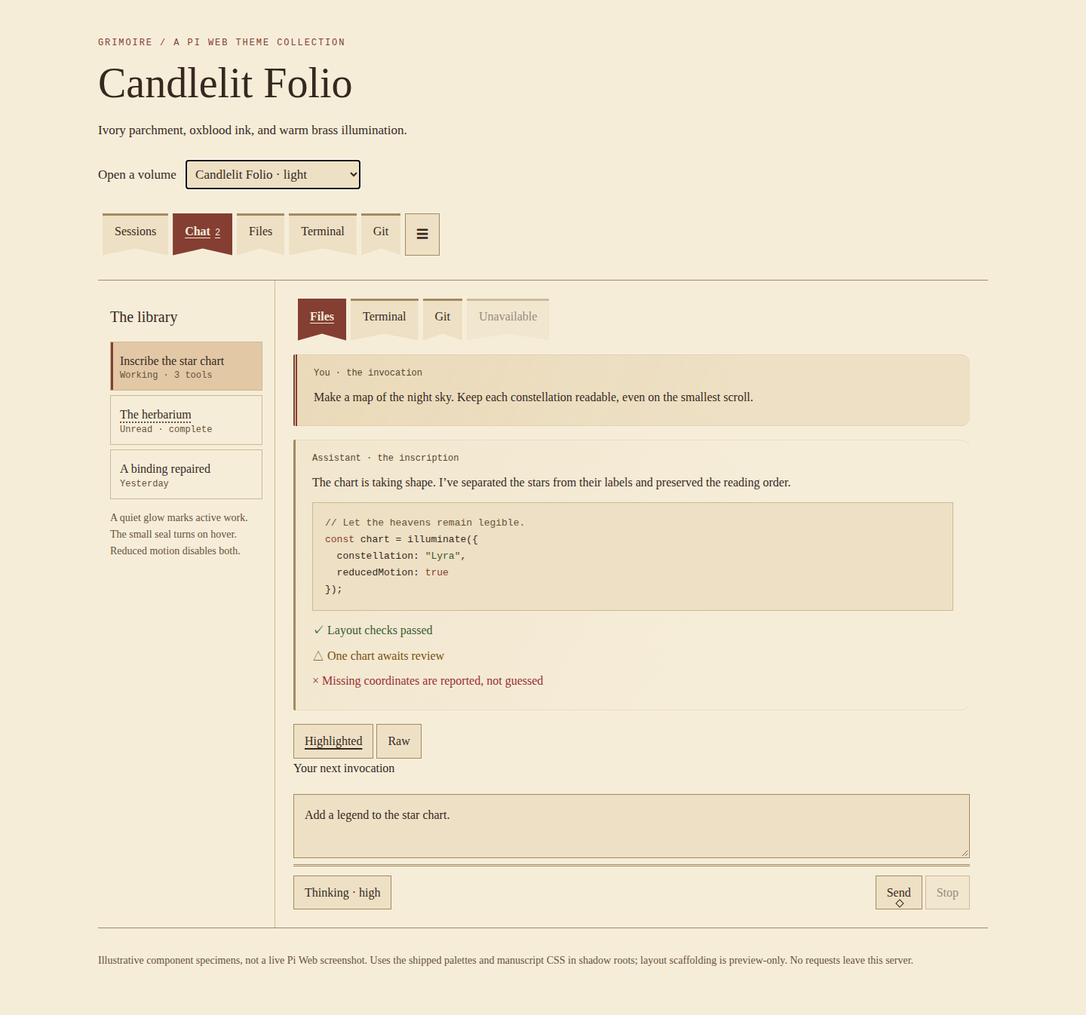
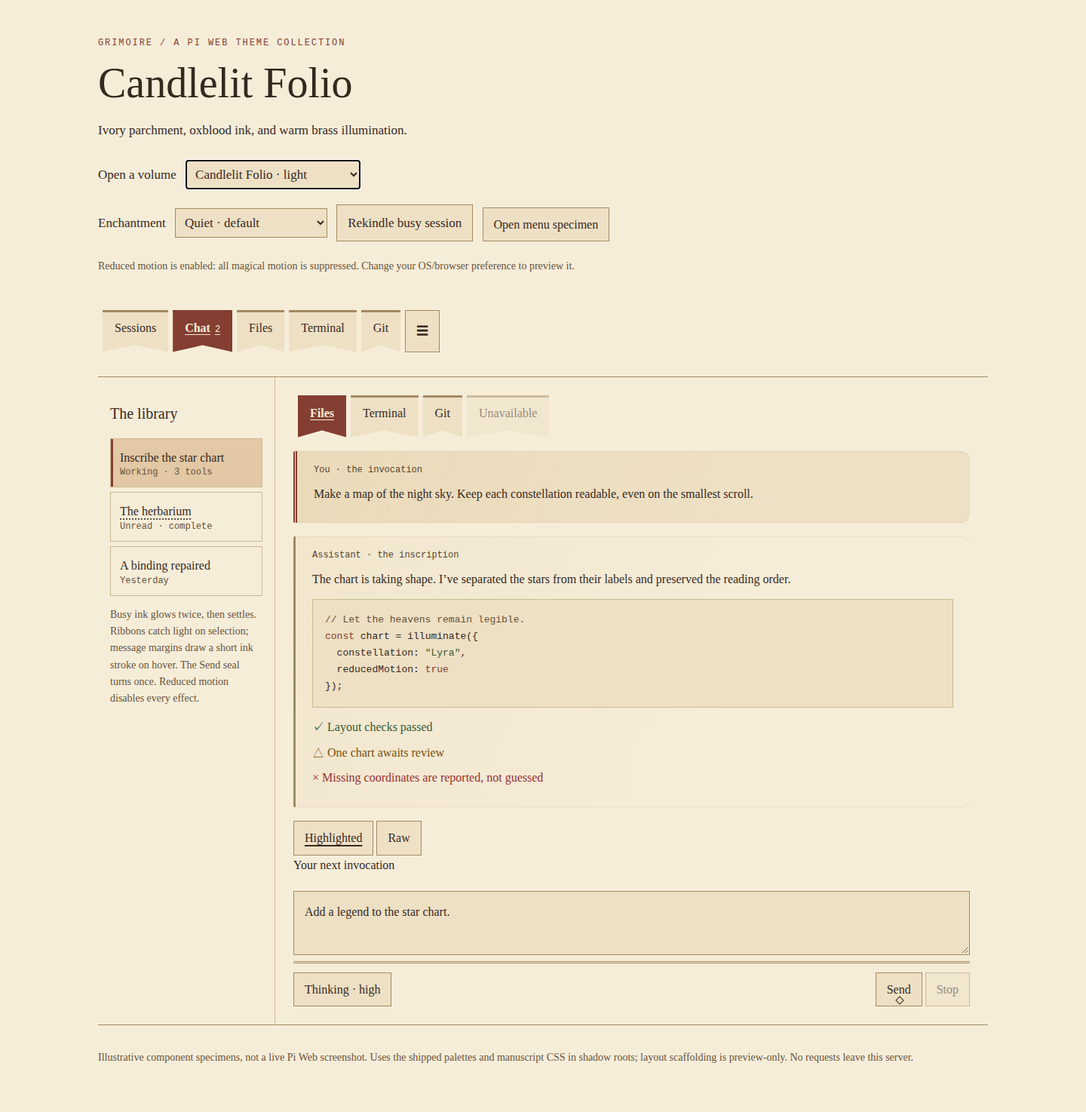
Add Quiet and Spellbound motion editions with interactive studies

Changed region(s): [[0.0938, 0.2808, 0.9062, 0.9049], [0.0938, 0.0312, 0.5625, 0.2496], [0.0938, 0.9361, 0.8438, 0.9673]]

diff --git a/previews/gallery.js b/previews/gallery.js
@@ -24,8 +24,10 @@ const base = `@layer pi-web-base {
   .ui-tab { flex: 0 0 auto; white-space: nowrap; }
   .tab-badge { font: 12px var(--pi-mono); margin-inline-start: 6px; }
   .ui-tab.selected { background: var(--pi-selection-bg); }
+  .ui-popup-panel { background: var(--pi-surface); color: var(--pi-text); padding: 20px; }
 }`;
 const templates = {
+  'grimoire-menu': `<button popovertarget="specimen-menu">Open menu specimen</button><div id="specimen-menu" class="ui-popup-panel ui-menu" popover><p>Bookmark this spell</p><button popovertarget="specimen-menu" popovertargetaction="hide">Close</button></div>`,
   'app-mobile-main-tabs': `<nav class="mobile-tabs ui-tabs ui-tabs--primary" aria-label="Main panel specimens"><button class="ui-button ui-tab" aria-pressed="false">Sessions</button><button class="ui-button ui-tab selected" aria-pressed="true">Chat<span class="tab-badge">2</span></button><button class="ui-button ui-tab" aria-pressed="false">Files</button><button class="ui-button ui-tab" aria-pressed="false">Terminal</button><button class="ui-button ui-tab" aria-pressed="false">Git</button><button class="ui-button ui-tab" data-navigation-trigger aria-label="Navigation">☰</button></nav>`,
   'workspace-panel': `<div class="ui-tabs ui-tabs--primary" aria-label="Workspace panel specimens"><button class="ui-button ui-tab selected" aria-pressed="true">Files</button><button class="ui-button ui-tab" aria-pressed="false">Terminal</button><button class="ui-button ui-tab" aria-pressed="false">Git</button><button class="ui-button ui-tab" disabled aria-pressed="false">Unavailable</button></div>`,
   'session-list': `<div data-ui-context="sessions"><div class="ui-nav-list">
@@ -46,7 +48,7 @@ for (const [tag, markup] of Object.entries(templates)) {
   customElements.define(tag, class extends HTMLElement {
     constructor() {
       super();
-      this.attachShadow({ mode: 'open' }).innerHTML = `<style>${base}</style><link rel="stylesheet" href="../assets/manuscript.css">${markup}`;
+      this.attachShadow({ mode: 'open' }).innerHTML = `<style>${base}</style><link rel="stylesheet" href="../assets/manuscript.css"><link rel="stylesheet" href="../assets/motion.css">${markup}`;
       // Specimen-only interaction; production navigation remains host-owned.
       this.shadowRoot.addEventListener('click', event => {
         const button = event.target.closest('button.ui-tab:not([data-navigation-trigger])');
@@ -68,11 +70,22 @@ const themes = {
   verdant: ['Verdant Codex', 'Forest leather, pale sage lettering, and botanical gold.', 'dark']
 };
 const select = document.querySelector('#theme');
-function choose(id) {
+const motion = document.querySelector('#motion');
+function choose(selection) {
+  const spellbound = selection.endsWith('-spellbound');
+  let id = selection.replace(/-spellbound$/, '');
   if (!Object.hasOwn(themes, id)) id = 'candlelit';
   select.value = id;
+  motion.value = spellbound ? 'spellbound' : 'quiet';
   for (const root of [document.head, ...Object.keys(templates).map(tag => document.querySelector(tag).shadowRoot)]) {
     root.querySelector('[data-paper]')?.remove();
+    root.querySelector('[data-spellbound]')?.remove();
+    if (spellbound) {
+      const link = document.createElement('link');
+      link.rel = 'stylesheet'; link.href = '../assets/spellbound.css';
+      link.dataset.spellbound = '';
+      root.append(link);
+    }
     if (['hedgewitch', 'scribe', 'forgotten'].includes(id)) {
       const link = document.createElement('link');
       link.rel = 'stylesheet'; link.href = '../assets/paper.css';
@@ -82,10 +95,25 @@ function choose(id) {
   }
   document.querySelector('#palette').href = `../assets/${id}.css`;
   document.documentElement.style.colorScheme = themes[id][2];
-  document.querySelector('#title').textContent = themes[id][0];
+  document.querySelector('#title').textContent = themes[id][0] + (spellbound ? ' · Spellbound' : '');
   document.querySelector('#description').textContent = themes[id][1];
-  history.replaceState(null, '', `#${id}`);
+  history.replaceState(null, '', `#${id}${spellbound ? '-spellbound' : ''}`);
 }
-select.addEventListener('change', () => choose(select.value));
+const chooseControls = () => choose(select.value + (motion.value === 'spellbound' ? '-spellbound' : ''));
+select.addEventListener('change', chooseControls);
+motion.addEventListener('change', chooseControls);
+document.querySelector('#rekindle').addEventListener('click', () => {
+  const row = document.querySelector('session-list').shadowRoot.querySelector('[data-busy]');
+  row.dataset.busy = 'false';
+  // Flush the idle state so the CSS-only finite activity effect can be replayed.
+  void row.offsetWidth;
+  row.dataset.busy = 'true';
+});
+const reducedMotion = matchMedia('(prefers-reduced-motion: reduce)');
+const explainMotion = () => { document.querySelector('#motion-status').textContent = reducedMotion.matches
+  ? 'Reduced motion is enabled: all magical motion is suppressed. Change your OS/browser preference to preview it.'
+  : 'Select another ribbon, hover a message or the Send seal, open the menu, or rekindle the busy session. All effects settle.'; };
+reducedMotion.addEventListener('change', explainMotion);
+explainMotion();
 window.addEventListener('hashchange', () => choose(location.hash.slice(1)));
 choose(location.hash.slice(1));

diff --git a/assets/motion.css b/assets/motion.css
@@ -1,0 +1,82 @@
+/* Quiet enchantment. Spellbound changes only these bounded motion parameters.
+   No entrance animation on transcript text: mounting history is not new output. */
+:root {
+  --grimoire-kindling-time: 1600ms;
+  --grimoire-glow: 12%;
+  --grimoire-glow-size: 12px;
+  --grimoire-ribbon-time: 650ms;
+  --grimoire-sheen: 15%;
+  --grimoire-ink-time: 500ms;
+  --grimoire-ink-length: 28px;
+  --grimoire-seal-time: 650ms;
+  --grimoire-seal-start: -45deg;
+  --grimoire-menu-time: 280ms;
+}
+/* All effects stop immediately when either accessibility preference changes.
+   Nothing is hidden and no animation is necessary to understand a state. */
+@media (prefers-reduced-motion: no-preference) and (forced-colors: none) {
+  :host(session-list) .ui-nav-row[data-busy="true"] {
+    animation: grimoire-kindling var(--grimoire-kindling-time) ease-in-out 2;
+  }
+  :host(app-mobile-main-tabs) .ui-tabs > button.ui-tab:not(:disabled, [data-navigation-trigger]):is(.selected, [aria-pressed="true"], [aria-current="page"])::before,
+  :host(workspace-panel) .ui-tabs > button.ui-tab:not(:disabled, [data-navigation-trigger]):is(.selected, [aria-pressed="true"], [aria-current="page"])::before {
+    background-image: linear-gradient(110deg, transparent 35%, color-mix(in srgb, var(--pi-bg) var(--grimoire-sheen), transparent) 50%, transparent 65%);
+    /* Sweep the notched hem only, never wash out the contrasting label. */
+    background-size: 300% 8px;
+    background-repeat: no-repeat;
+    background-position: -100% 100%;
+    animation: grimoire-ribbon-light var(--grimoire-ribbon-time) ease-out 1;
+  }
+  /* Reserved decoration only; prose, code, selections and hitboxes never move. */
+  :host(chat-view) .chat-message-content::before {
+    content: "";
+    position: absolute;
+    inset-inline-start: 10px;
+    inset-block-start: 6px;
+    inline-size: var(--grimoire-ink-length);
+    block-size: 2px;
+    background: var(--pi-accent);
+    transform: scaleX(0);
+    transform-origin: center;
+    pointer-events: none;
+  }
+  :host(chat-view) .chat-message:focus-within .chat-message-content::before {
+    animation: grimoire-ink var(--grimoire-ink-time) ease-out 1;
+  }
+  :host(prompt-editor) .ui-composer-actions > [data-default="true"]:not(:disabled):focus-visible::after {
+    animation: grimoire-seal var(--grimoire-seal-time) ease-out 1;
+  }
+  .ui-popup-panel.ui-menu:popover-open {
+    animation: grimoire-menu-ink var(--grimoire-menu-time) ease-out 1;
+  }
+  /* Hover effects only on devices with real hover, not sticky touch hover. */
+  @media (hover: hover) {
+    :host(chat-view) .chat-message:hover .chat-message-content::before {
+      animation: grimoire-ink var(--grimoire-ink-time) ease-out 1;
+    }
+    :host(prompt-editor) .ui-composer-actions > [data-default="true"]:not(:disabled):hover::after {
+      animation: grimoire-seal var(--grimoire-seal-time) ease-out 1;
+    }
+  }
+}
+@keyframes grimoire-kindling {
+  0%, 100% { box-shadow: inset 3px 0 var(--pi-accent); }
+  50% { box-shadow: inset 3px 0 var(--pi-accent), inset 0 0 var(--grimoire-glow-size) color-mix(in srgb, var(--pi-accent) var(--grimoire-glow), transparent); }
+}
+@keyframes grimoire-ribbon-light {
+  from { background-position: 100% 100%; }
+  to { background-position: -100% 100%; }
+}
+@keyframes grimoire-ink {
+  0% { transform: scaleX(0); opacity: 0; }
+  35%, 70% { transform: scaleX(1); opacity: .65; }
+  100% { transform: scaleX(1); opacity: 0; }
+}
+@keyframes grimoire-seal {
+  from { transform: rotate(var(--grimoire-seal-start)); }
+  to { transform: rotate(45deg); }
+}
+@keyframes grimoire-menu-ink {
+  from { border-color: var(--pi-accent); }
+  to { border-color: var(--pi-border); }
+}

diff --git a/previews/index.html b/previews/index.html
@@ -6,6 +6,7 @@
   <title>Grimoire · Theme specimen</title>
   <link id="palette" rel="stylesheet" href="../assets/candlelit.css">
   <link rel="stylesheet" href="gallery.css">
+  <link rel="stylesheet" href="../assets/motion.css">
   <script type="module" src="gallery.js"></script>
 </head>
 <body>
@@ -14,10 +15,16 @@
     <h1 id="title">Candlelit Folio</h1>
     <p id="description">Ivory parchment, oxblood ink, and warm brass illumination.</p>
     <label>Open a volume <select id="theme"><option value="candlelit">Candlelit Folio · light</option><option value="astral">Astral Grimoire · dark</option><option value="verdant">Verdant Codex · dark</option><option value="hedgewitch">Hedgewitch’s Journal · light</option><option value="scribe">Scribe’s Spellbook · light</option><option value="forgotten">Forgotten Folio · light</option></select></label>
+    <div class="motion-lab">
+      <label>Enchantment <select id="motion"><option value="quiet">Quiet · default</option><option value="spellbound">Spellbound · expressive</option></select></label>
+      <button id="rekindle">Rekindle busy session</button>
+      <grimoire-menu></grimoire-menu>
+      <p id="motion-status" role="status"></p>
+    </div>
   </header>
   <app-mobile-main-tabs></app-mobile-main-tabs>
   <main>
-    <aside><h2>The library</h2><session-list></session-list><p class="note">A quiet glow marks active work. The small seal turns on hover. Reduced motion disables both.</p></aside>
+    <aside><h2>The library</h2><session-list></session-list><p class="note">Busy ink glows twice, then settles. Ribbons catch light on selection; message margins draw a short ink stroke on hover. The Send seal turns once. Reduced motion disables every effect.</p></aside>
     <section aria-label="Conversation specimen"><workspace-panel></workspace-panel><chat-view></chat-view><pi-web-content-renderer></pi-web-content-renderer><prompt-editor></prompt-editor></section>
   </main>
   <footer>Illustrative component specimens, not a live Pi Web screenshot. Uses the shipped palettes and manuscript CSS in shadow roots; layout scaffolding is preview-only. No requests leave this server.</footer>

diff --git a/assets/manuscript.css b/assets/manuscript.css
@@ -1,4 +1,5 @@
-/* Shared binding. Only supported host hooks; no behavior or generated text. */
+/* Shared binding. Documented hooks plus version-sensitive shell tabs.
+   No behavior or generated text. Motion lives in motion.css. */
 :host(chat-view) .chat-message {
   border-radius: var(--grimoire-radius);
   border-inline-start-width: 3px;
@@ -121,24 +122,6 @@
   :host(workspace-panel) .ui-tabs > button.ui-tab:not([data-navigation-trigger])::before {
     background: Canvas;
   }
-}
-/* A brief illumination when a session becomes busy, never an endless pulse.
-   Only shadow changes: no moving text, scroll shifts, overlays or click targets. */
-@media (prefers-reduced-motion: no-preference) {
-  :host(session-list) .ui-nav-row[data-busy="true"] {
-    animation: grimoire-kindling 2400ms ease-in-out 2;
-  }
-  :host(prompt-editor) .ui-composer-actions > [data-default="true"]:not(:disabled):hover::after {
-    animation: grimoire-seal 650ms ease-out 1;
-  }
-}
-@keyframes grimoire-kindling {
-  0%, 100% { box-shadow: inset 3px 0 var(--pi-accent); }
-  50% { box-shadow: inset 3px 0 var(--pi-accent), inset 0 0 14px var(--grimoire-illumination); }
-}
-@keyframes grimoire-seal {
-  from { transform: rotate(-45deg); }
-  to { transform: rotate(45deg); }
 }
 @media (forced-colors: active) {
   :host(chat-view) .chat-message {

diff --git a/previews/gallery.css b/previews/gallery.css
@@ -6,6 +6,11 @@ header, main, footer { max-width: 1180px; margin-inline: auto; }
 h1 { font-size: clamp(32px, 5vw, 56px); font-weight: 400; line-height: 1.15; margin: 10px 0; }
 h2 { font-size: 20px; font-weight: 400; }
 .eyebrow { color: var(--pi-accent); font: 12px/1.5 var(--pi-mono); letter-spacing: .16em; }
+.motion-lab { padding-block: 8px; }
+.motion-lab > button { padding: 10px 14px; font: inherit; color: var(--pi-text); background: var(--pi-surface); border: 1px solid var(--pi-border); cursor: pointer; }
+.motion-lab > button:focus-visible { outline: 2px solid var(--pi-accent); outline-offset: 2px; }
+#motion-status { font-size: 14px; color: var(--pi-muted); }
+grimoire-menu { display: inline-block; margin: 8px; vertical-align: middle; }
 select { margin: 8px; padding: 8px; max-width: 100%; background: var(--pi-surface); color: var(--pi-text); border: 1px solid var(--pi-border); font: inherit; }
 main { display: grid; grid-template-columns: 235px minmax(0, 1fr); margin-block: 32px; border-block: 1px solid var(--pi-border); }
 aside { padding: 16px; border-inline-end: 1px solid var(--pi-border-muted); }

diff --git a/assets/spellbound.css b/assets/spellbound.css
@@ -1,0 +1,14 @@
+/* Explicitly selected theatrical edition. Still finite, still no moving text.
+   Maximum uninterrupted effect: two 2200ms kindling cycles (4.4 seconds). */
+:root {
+  --grimoire-kindling-time: 2200ms;
+  --grimoire-glow: 28%;
+  --grimoire-glow-size: 26px;
+  --grimoire-ribbon-time: 1200ms;
+  --grimoire-sheen: 32%;
+  --grimoire-ink-time: 1100ms;
+  --grimoire-ink-length: 72px;
+  --grimoire-seal-time: 1000ms;
+  --grimoire-seal-start: -315deg;
+  --grimoire-menu-time: 600ms;
+}

diff --git a/README.md b/README.md
@@ -11,7 +11,9 @@ Six wizardly volumes for agentic work: three quiet manuscript palettes and three
 | **Scribe’s Spellbook** | Light | Calligraphic Charm handwriting, aged golden parchment | `grimoire:scribe` |
 | **Forgotten Folio** | Light | Slanted Marck Script, faded paper, foxing and worn edges | `grimoire:forgotten` |
 
-These are independent volumes, not an automatic light/dark pair. Auto mode will leave each selected volume unchanged.
+Each volume now has **Quiet** (the existing name/ID) and **Spellbound** motion editions: six palettes, twelve picker entries. Choose a `· Spellbound` entry for more expressive animation; its ID adds `-spellbound`, for example `grimoire:scribe-spellbound`. Both editions share the same static design. These are independent volumes, not an automatic light/dark pair; Auto leaves each selected edition unchanged.
+
+See [Enchantment studies](MOTION.md) for the effect-by-effect comparison, design reasoning, limitations, and test instructions.
 
 ## Preview before installing
 
@@ -35,7 +37,7 @@ From this repository, run:
 npm run preview
 ```
 
-Open **http://127.0.0.1:4173/previews/** and choose a volume. Direct selections: [Candlelit](previews/index.html#candlelit), [Astral](previews/index.html#astral), [Verdant](previews/index.html#verdant), [Hedgewitch](previews/index.html#hedgewitch), [Scribe](previews/index.html#scribe), [Forgotten](previews/index.html#forgotten). Serve these files over HTTP; Git hosting may display HTML source rather than render it. If the repository is on a remote machine, forward port 4173 to your browser's machine. Stop the preview with Ctrl+C.
+Open **http://127.0.0.1:4173/previews/** and choose a volume, then use **Enchantment → Quiet / Spellbound** to compare motion. Click **Rekindle busy session**, select ribbons, hover message margins and Send, or open the menu specimen. Your system reduced-motion preference always takes priority. Static PNGs do not show animation. Direct selections: [Candlelit](previews/index.html#candlelit), [Astral](previews/index.html#astral), [Verdant](previews/index.html#verdant), [Hedgewitch](previews/index.html#hedgewitch), [Scribe](previews/index.html#scribe), [Forgotten](previews/index.html#forgotten). Serve these files over HTTP; Git hosting may display HTML source rather than render it. If the repository is on a remote machine, forward port 4173 to your browser's machine. Stop the preview with Ctrl+C.
 
 The gallery uses the actual theme CSS in shadow roots with illustrative component specimens. It is **not a screenshot of the live application** or a substitute for testing in your Pi Web version. It needs Python 3 for the included server; any static HTTP server also works. No external fonts, image services, or CDN requests are used.
 
@@ -50,7 +52,7 @@ Requires a Pi Web version supporting **declarative CSS-first themes** and the co
    If you copied the repository elsewhere, use its actual absolute path on that machine. In Docker this must be a path accessible inside the container, preferably on a persistent mount.
 2. Check **Settings → PI WEB plugins** and enable **grimoire** if disabled.
 3. Reload the browser page.
-4. In **Settings → General → Theme**, select any of the six volumes listed above. The handwritten editions use the same installation—no separate font installation is needed.
+4. In **Settings → General → Theme**, select any of the six volumes listed above, or its **· Spellbound** edition. The handwritten editions use the same installation—no separate font installation is needed.
 
 Alternative developer installation: symlink this repository into the gateway's plugin directory (`$PI_WEB_DATA_DIR/plugins`, or `~/.pi-web/plugins` if unset), then reload the browser. For example, on that machine:
 
@@ -71,8 +73,8 @@ To uninstall, first select a built-in theme, then remove the package in Settings
 - Static local SVG textures provide mottling, fibres and foxing across the overall app canvas as well as message surfaces. The canvas texture is softened beneath a 55% base-colour wash; messages retain stronger paper detail and worn edges. Code blocks, inputs, and controls keep solid backgrounds. Shell host selectors (`pi-web-app`, `workspace-panel`) are version-sensitive and should be rechecked on host upgrades; opaque plugin-owned panels can cover the canvas. Inset shading wears the page edges without clipping text or changing hit targets. Forced colours removes the paper effects. Font loading uses `swap`, so prose remains visible while loading.
 - All six themes render main navigation (Sessions, Chat, pinned tools) and workspace tool tabs (Files, Terminal, Git, etc.) as notched ribbon bookmarks. Active ribbons use the theme accent with contrasting text and an underline. Only the decorative backing is clipped: focus outlines, labels, badges and rectangular click targets remain intact. Narrow strips keep horizontal scrolling; navigation-menu and collapse buttons remain ordinary controls. These rules target the version-sensitive `app-mobile-main-tabs` and `workspace-panel` shell hosts, not arbitrary plugin tabs or renderer choices.
 - User messages have a double leading rule; assistant messages a single rule. Current rows and selected choices retain structural cues, not colour alone.
-- Busy sessions receive two quiet 2.4-second illuminations. Hovering the default composer action turns its small diamond seal once. Neither effect changes layout or interaction.
-- Motion is opt-in through `prefers-reduced-motion: no-preference`; reduced-motion users get static decoration. Forced-colour mode keeps borders and a current-row outline.
+- Busy sessions kindle twice (3.2s total in Quiet, 4.4s in Spellbound). Selected bookmark hems catch light, message margins draw a short ink stroke on hover/focus, the default composer seal turns once, and opening menus briefly illuminate their borders. Text, click targets and reading surfaces stay still. No ambient loops or automatic message entrances.
+- All theme-owned motion requires `prefers-reduced-motion: no-preference` and inactive forced colours; changing either preference stops it immediately. Hover effects require real hover capability. Static borders, selection and focus remain. Already-selected/busy elements can animate on mount or theme change—these are decorations, not new-output or success signals.
 - Native focus, disabled/hidden states, labels, popover positioning, and Stop remain owned by Pi Web. No text replacement, click interception, or spellcasting behavior is added.
 
 ## Checks and development
@@ -84,13 +86,15 @@ npm pack --dry-run       # inspect the local package contents; does not publish
 
 Tests check metadata, local assets, restrained motion rules, and WCAG 4.5:1 contrast for primary/secondary/muted and semantic text against the two main opaque surfaces. They are not a blanket accessibility certification: blended surfaces, third-party plugins, focus, responsive layout, and actual host adoption also need browser checks.
 
-`assets/{candlelit,astral,verdant,hedgewitch,scribe,forgotten}.css` define complete palettes; `assets/manuscript.css` adds shared decorations using documented hooks. The three paper editions additionally load `assets/paper.css`, `assets/fonts/`, and `assets/textures/`.
+`assets/{candlelit,astral,verdant,hedgewitch,scribe,forgotten}.css` define complete palettes; `assets/manuscript.css` adds shared decorations using documented hooks. The three paper editions additionally load `assets/paper.css`, `assets/fonts/`, and `assets/textures/`. All volumes load `assets/motion.css`; Spellbound editions append parameter overrides from `assets/spellbound.css`.
 
 Optional browser fixture check (requires a separately available Playwright installation and Chromium):
 
 ```sh
 PLAYWRIGHT_MODULE=/absolute/path/to/playwright/index.mjs node test/browser.mjs
 # Add --capture to regenerate all six PNG previews.
+PLAYWRIGHT_MODULE=/absolute/path/to/playwright/index.mjs node test/motion-browser.mjs
+# Additional motion-enabled checks for all twelve editions; temporary port 4175.
 ```
 
 This launches a temporary loopback-only static server on port 4174 and closes it afterward. It checks local font loading, message/canvas paper, solid code/control backgrounds and fonts, mobile overflow, reduced motion, forced colours, and paper removal on theme switching. All six themes also exercise both bookmark strips: selection and hover, keyboard focus, minimum target sizes, horizontal scrolling, RTL, disabled controls, forced-colour cues and exclusions. The gallery tabs are interactive specimens, not navigation into the live app. `previews/` is a standalone specimen gallery, not application code. No build step or runtime dependencies.

diff --git a/MOTION.md b/MOTION.md
@@ -1,0 +1,53 @@
+# Enchantment studies
+
+Six palettes, two motion editions each. **Quiet** is the default under the existing theme names and IDs. **Spellbound** is an explicit alternative in the Pi Web theme picker (`grimoire:<volume>-spellbound`). It changes motion parameters only, not palette, typography, layout, or interactions. No additional plugin JavaScript runs in Pi Web.
+
+## Motion vocabulary
+
+| Effect and trigger | Quiet | Spellbound | What stays still |
+| --- | --- | --- | --- |
+| Kindling — session becomes busy | Two 1.6s cycles, soft 12px inset glow | Two 2.2s cycles, stronger 26px glow | Row, label, status and click target |
+| Ribbon catches light — panel selected | One 650ms sweep | One 1.2s brighter sweep | Button, text, badge, focus ring |
+| Ink inscription — hover/focus within a message | One 500ms, 28px stroke | One 1.1s, 72px stroke | The entire message and all code |
+| Seal casting — hover or keyboard-focus default composer action | One 650ms quarter-turn | One 1s full turn | Send/Queue/Steer label and button |
+| Menu binding — a native menu opens | One 280ms border-colour settling | One 600ms border-colour settling | Popup position, contents and focus |
+
+The ribbon sweep stays in the bottom 8px of its decorative backing, below labels; it does not reduce text contrast. Ink strokes occupy the small top margin of message content and fade away. Only decorative ink and the 6px seal transform. Nothing rotates or moves a reading surface. Busy kindling ends at the normal structural edge, even if the agent continues working; this is decoration, not a replacement activity indicator.
+
+The same vocabulary takes its ink colours from each volume: oxblood/brass, lilac/silver, sage/gold, moss/cream, sepia/gold, and faded slate. Stronger motion is optional rather than silently imposed on existing selections.
+
+## Try the range
+
+1. Run `npm run preview`, open `http://127.0.0.1:4173/previews/`.
+2. Choose a volume and **Enchantment → Quiet / Spellbound**. Deep links include `#astral-spellbound` or `#scribe-spellbound`.
+3. Select another ribbon to replay its sweep. Hover a message for the ink stroke, then hover or keyboard-focus Send for the seal.
+4. Click **Rekindle busy session** to replay the bounded activity glow. This affects only fixture markup; it never dispatches real agent work.
+5. Open the menu specimen and dismiss it with Escape. The native popover owns visibility and dismissal.
+6. Switch reduced-motion preference while effects are running. The gallery explains when motion is suppressed; it does not override your preference.
+
+Static PNG specimens show the design but cannot demonstrate timing. The interactive gallery uses the delivered CSS. It is not live-host integration evidence.
+
+## Boundaries that matter
+
+- All theme-owned motion is gated by both `prefers-reduced-motion: no-preference` and `forced-colors: none`. Switching either preference interrupts it immediately. Static roles, selection, focus, and borders remain.
+- No ambient loops. Longest individual sequence is **4.4 seconds**. Hover effects require genuine hover capability, avoiding sticky touch hover. Keyboard focus gets equivalent seal/ink effects where focus exists.
+- CSS sees mounted state, not application lifecycle events. Already-selected tabs and busy rows can animate on initial mount, theme change or remount. This does **not** indicate a new message, successful command or fresh agent action. Changing animation parameters mid-flight may retime the current effect rather than restart it.
+- Message ink responds to hover/focus only; streaming tokens and loading older messages do not continually restart a text reveal. A pointer remaining over one message plays the stroke once until it leaves/re-enters.
+- Focus outlines appear immediately; there is no delayed focus transition. Disabled actions never animate their seals or ribbon sheen. Native hidden/disabled states and popup dismissal remain host-owned.
+- Effects use small shadows, background-position, border colour, and decorative transforms/opacity. No canvas, particle system, image animation, timers or permanent `will-change` allocations. The small paint-based effects are finite, but browser fixture tests are not a performance benchmark on every device.
+- Tabs use documented shared classes in version-sensitive shell hosts. Message, composer, navigation-row and menu selectors follow the supported contracts. Test after Pi Web upgrades.
+
+## Deliberately not implemented
+
+**Typewriter output** would hide readable text, interfere with streaming and imply behavior the theme cannot observe. **Page flips, floating panels and parallax** would move reading surfaces or hit targets. **Perpetual candlelight, sparks and drifting paper** would keep consuming attention while the user reads. **Success explosions** would imply semantic events not exposed by these CSS hooks. These are poor tradeoffs even in Spellbound.
+
+## Verification
+
+`npm test` validates the twelve declarations, palette equivalence between editions, local assets, motion gates and duration bounds. Optional Chromium checks:
+
+```sh
+PLAYWRIGHT_MODULE=/absolute/path/to/playwright/index.mjs node test/browser.mjs
+PLAYWRIGHT_MODULE=/absolute/path/to/playwright/index.mjs node test/motion-browser.mjs
+```
+
+The motion check exercises all twelve selections with motion enabled, samples live animation timelines, verifies stable hitbox geometry, checks immediate reduced-motion/forced-colour interruption, switches editions, dismisses native popovers, and checks touch behaviour. The two scripts use temporary loopback servers on ports 4174 and 4175 respectively, stopped on exit. No live installation or restart is performed.
